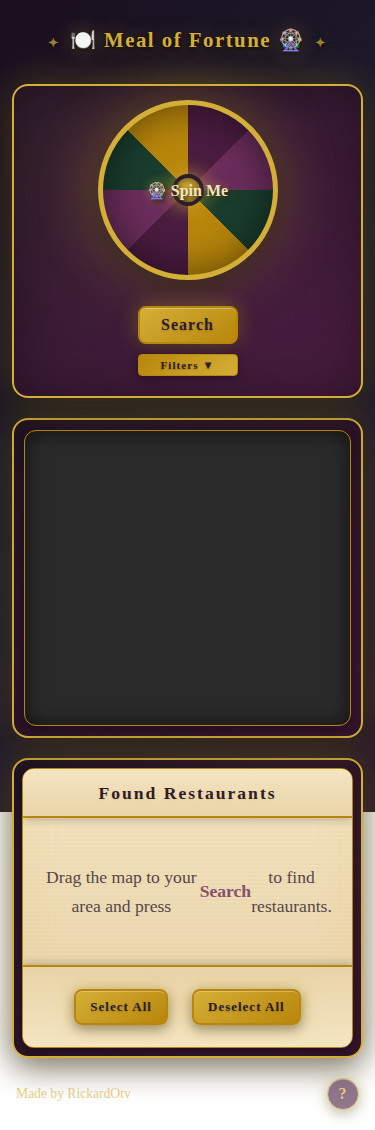
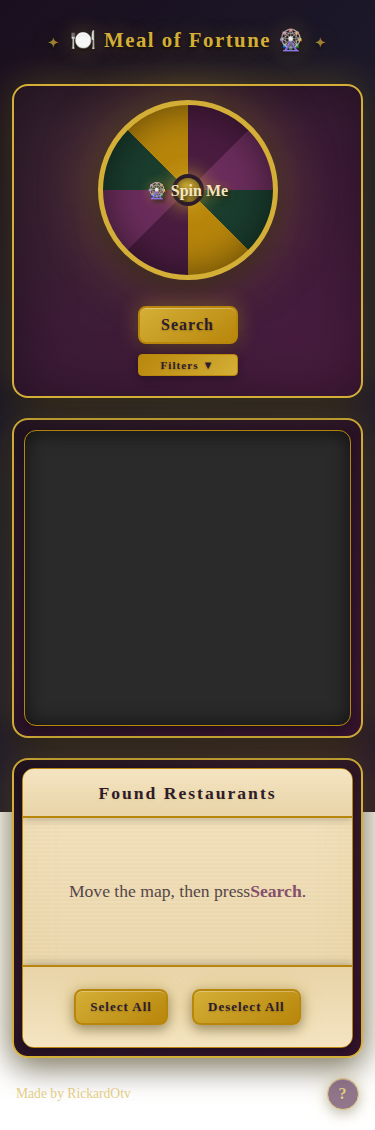
Shorten empty state text to avoid awkward line wrapping
https://claude.ai/code/session_01Cbm6LteunfGoQEgsxRhxom

Changed region(s): [[0.1467, 0.7743, 0.8507, 0.8053]]

diff --git a/src/components/Sidebar.jsx b/src/components/Sidebar.jsx
@@ -36,14 +36,14 @@ export default function Sidebar({
         {/* Empty state: not searched yet */}
         {!isSearching && !hasSearched && restaurants.length === 0 && (
           <p className="no-results">
-            Drag the map to your area and press <strong>Search</strong> to find restaurants.
+            Move the map, then press <strong>Search</strong>.
           </p>
         )}
 
         {/* Empty state: searched but no results */}
         {!isSearching && hasSearched && restaurants.length === 0 && (
           <p className="no-results">
-            No restaurants found here. Try moving the map or adjusting your filters.
+            No results found. Try moving the map or changing filters.
           </p>
         )}
 
